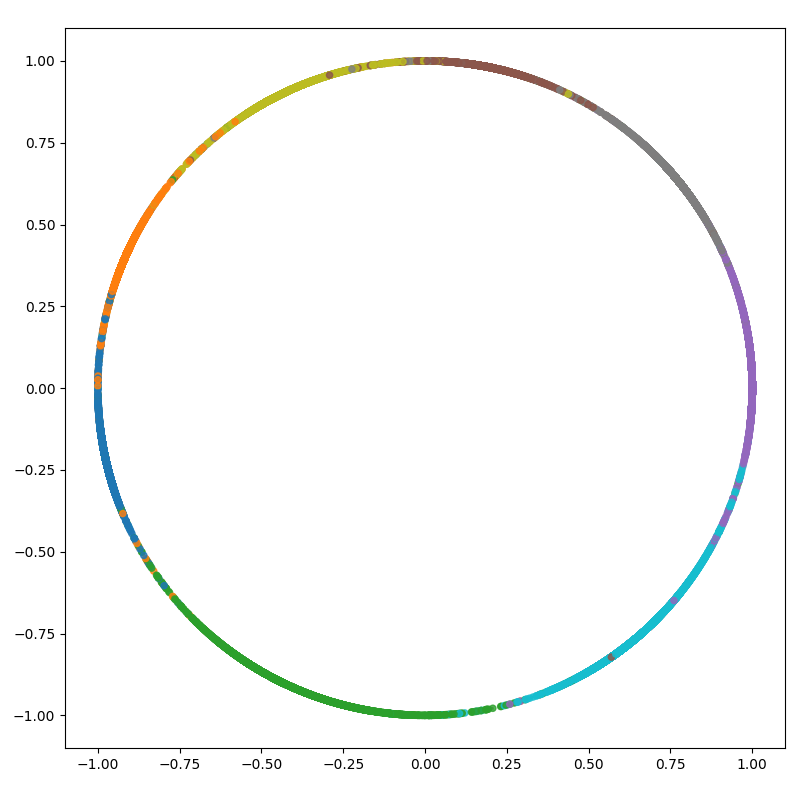
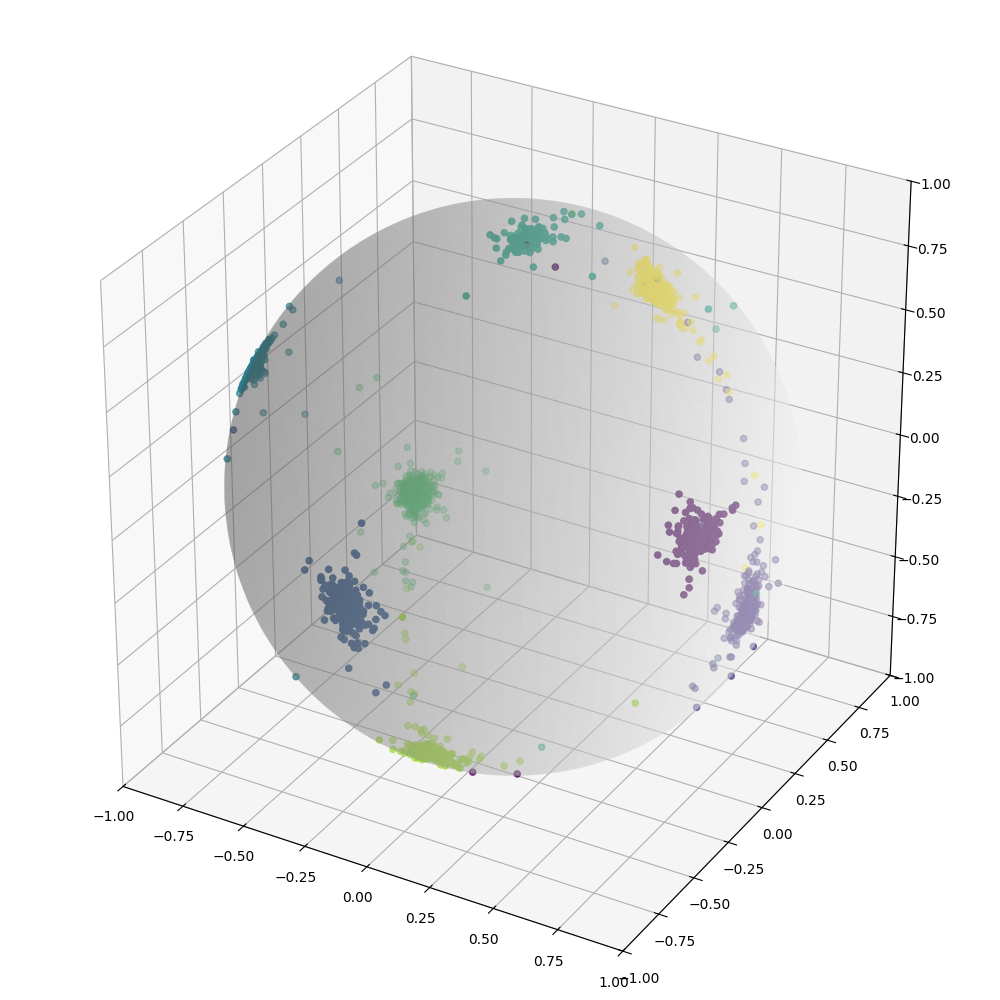
Train models with 3-dimensional embedding vector and adjust plots

diff --git a/src/pl_module.py b/src/pl_module.py
@@ -21,19 +21,24 @@ class ArcMarginModule(L.LightningModule):
         n_classes: int = 10,
         s: float | None = None,
         m: float | None = None,
-        lr: float = 1e-4,
+        lr: float = 0.01,
     ):
         super().__init__()
-        self.save_hyperparameters()
         if data_name == "mnist":
-            self.backbone = LeNetExt(in_channels=1, input_size=28, n_features=embed_dim)
+            # self.backbone = LeNetExt(in_channels=1, input_size=28, n_features=embed_dim)
+            self.backbone = ConvNet(in_channels=1, n_features=embed_dim)
         elif data_name == "cifar10":
-            self.backbone = LeNetExt(in_channels=3, input_size=32, n_features=embed_dim)
+            # self.backbone = LeNetExt(in_channels=3, input_size=32, n_features=embed_dim)
+            self.backbone = ConvNet(in_channels=3, n_features=embed_dim)
         else:
             raise NotImplementedError("Unknown data_name")
         assert header in header_dict.keys()
         kwargs = {k: v for k, v in (("s", s), ("m", m)) if v is not None}
         self.header = header_dict[header](embed_dim, n_classes, **kwargs)
+        s = self.header.s
+        m = self.header.m
+
+        self.save_hyperparameters()
 
         self.criterion = torch.nn.CrossEntropyLoss()
 
@@ -50,7 +55,7 @@ class ArcMarginModule(L.LightningModule):
         # logits vector describes the probability for each image to belong to one of n_classes
         loss = self.criterion(logits, targets)
         optimizer_lr = self.optimizers().optimizer.param_groups[0]["lr"]
-        self.log("loss", loss, prog_bar=True)
+        self.log("loss", loss, prog_bar=True, on_epoch=True)
         self.log("optimizer_lr", optimizer_lr)
         self.log("max_ampl", max_ampl.item())
         return loss
@@ -61,4 +66,5 @@ class ArcMarginModule(L.LightningModule):
             params=self.parameters(),
             lr=self.hparams.lr,
         )
-        return optimizer
+        scheduler = torch.optim.lr_scheduler.StepLR(optimizer, step_size=8, gamma=0.25)
+        return {"optimizer": optimizer, "lr_scheduler": scheduler}

diff --git a/src/models/headers.py b/src/models/headers.py
@@ -59,8 +59,13 @@ class ArcFaceHeader(ArcMarginHeader):
     Reference: https://ieeexplore.ieee.org/document/8953658 (CVPR, 2019)
     """
 
-    def __init__(self, in_features, out_features, s=64.0, m=0.5):
+    # NOTE: The original ArcFace scaling factor is 64.0, but we set it to 1.0 to stabilize tranining on this simple dataset
+    def __init__(self, in_features, out_features, s=1.0, m=0.5):
         super().__init__(in_features=in_features, out_features=out_features, s=s, m2=m)
+
+    @property
+    def m(self):
+        return self.m2
 
 
 class CosFaceHeader(ArcMarginHeader):
@@ -72,6 +77,10 @@ class CosFaceHeader(ArcMarginHeader):
     def __init__(self, in_features, out_features, s=1.0, m=0.35):
         super().__init__(in_features=in_features, out_features=out_features, s=s, m3=m)
 
+    @property
+    def m(self):
+        return self.m3
+
 
 class SphereFaceHeader(ArcMarginHeader):
     """
@@ -81,6 +90,10 @@ class SphereFaceHeader(ArcMarginHeader):
 
     def __init__(self, in_features, out_features, m=4.0):
         super().__init__(in_features=in_features, out_features=out_features, s=1, m1=m)
+
+    @property
+    def m(self):
+        return self.m1
 
 
 class LinearHeader(nn.Module):
@@ -93,6 +106,14 @@ class LinearHeader(nn.Module):
         self.out_features = out_features
 
         self.linear = nn.Linear(in_features=in_features, out_features=out_features, bias=False)
+
+    @property
+    def s(self):
+        return None
+
+    @property
+    def m(self):
+        return None
 
     def forward(self, input, label):
         return self.linear(input)

diff --git a/train.py b/train.py
@@ -40,7 +40,7 @@ def main(parser: jsonargparse.ArgumentParser):
     cp_callback = ModelCheckpoint(
         save_weights_only=True,
         save_last=None,
-        monitor="loss",
+        monitor="loss_epoch",
         mode="min",
         # every_n_train_steps=50,  # By default lightning only monitors the metric per epoch
         filename="{epoch}_{step}_{loss:.4f}",
@@ -76,7 +76,7 @@ if __name__ == "__main__":
         default={
             "data_name": "mnist",
             "n_classes": 8,
-            "batch_size": 64,
+            "batch_size": 512,
         },
     )
     parser.add_class_arguments(
@@ -84,7 +84,8 @@ if __name__ == "__main__":
         "pl_module",
         default={
             "header": "linear",
-            "embed_dim": 2,
+            "embed_dim": 3,
+            "lr": 0.01,
         },
     )
     parser.link_arguments("datamodule.data_name", "pl_module.data_name", apply_on="parse")
@@ -96,7 +97,7 @@ if __name__ == "__main__":
             "precision": "32-true",  # Important to use full precision!
             "log_every_n_steps": 50,
             "enable_checkpointing": True,
-            "max_epochs": 15,
+            "max_epochs": 20,
         },
     )
 

diff --git a/eval.py b/eval.py
@@ -114,8 +114,12 @@ def main(
 
     results_dir = Path("./results")
     results_dir.mkdir(exist_ok=True)
-    # plot_3d(feats, labels, fig_path=results_dir / f"{header}.png")
-    plot_2d(feats, labels, fig_path=results_dir / f"{header}.png")
+    if feats.shape[1] == 2:
+        plot_2d(feats, labels, fig_path=results_dir / f"{header}.png")
+    elif feats.shape[1] == 3:
+        plot_3d(feats, labels, fig_path=results_dir / f"{header}.png")
+    else:
+        raise RuntimeError(f"Plotting features with shape {feats.shape} is not supported")
 
 
 if __name__ == "__main__":

diff --git a/README.md b/README.md
@@ -49,7 +49,7 @@ python eval.py --header $HEADER_NAME
 
 ## Results
 
-Currently, our results for training and evaluating on the MNIST dataset with a 2-dimensional embedding vector look as follows:
+Our results for training and evaluating on the MNIST dataset with a 3-dimensional embedding vector look as follows. We also provide the corresponding training configs for reproducibility.
 
 - Linear Header:
 
@@ -57,11 +57,15 @@ Currently, our results for training and evaluating on the MNIST dataset with a 2
         <img src="./assets/linear.png" alt="Linear Header" width="300">
     </div>
 
+    Config: [configs/linear.yaml](/configs/linear.yaml)
+
 - ArcFace Header:
 
     <div style="text-align: left;">
         <img src="./assets/arcface.png" alt="ArcFace Header" width="300">
     </div>
+
+    Config: [configs/arcface.yaml](/configs/arcface.yaml)
 
 - CosFace Header:
 
@@ -69,14 +73,19 @@ Currently, our results for training and evaluating on the MNIST dataset with a 2
         <img src="./assets/cosface.png" alt="CosFace Header" width="300">
     </div>
 
+    Config: [configs/cosface.yaml](/configs/cosface.yaml)
+
 - SphereFace Header:
 
     <div style="text-align: left;">
         <img src="./assets/sphereface.png" alt="SphereFace Header" width="300">
     </div>
 
+## Observations
+
+The training with the margin-based losses is quite sensitive to choosing an appropriate combination of batch-size and learning-rate.
+
 ## Todos
 
-- [ ] The margin for ArcFace and CosFace should be better visible compared to the Linear Header
-- [ ] Fix SphereFace such that the embeddings are also fully distributed on the unit circle
-- [ ] Add interactive 3D visualizations to visualize 3-dimensional embedding vectors
+- [ ] Find a working configuration for SphereFace
+- [ ] Find a working parameter set for training on Cifar-10
